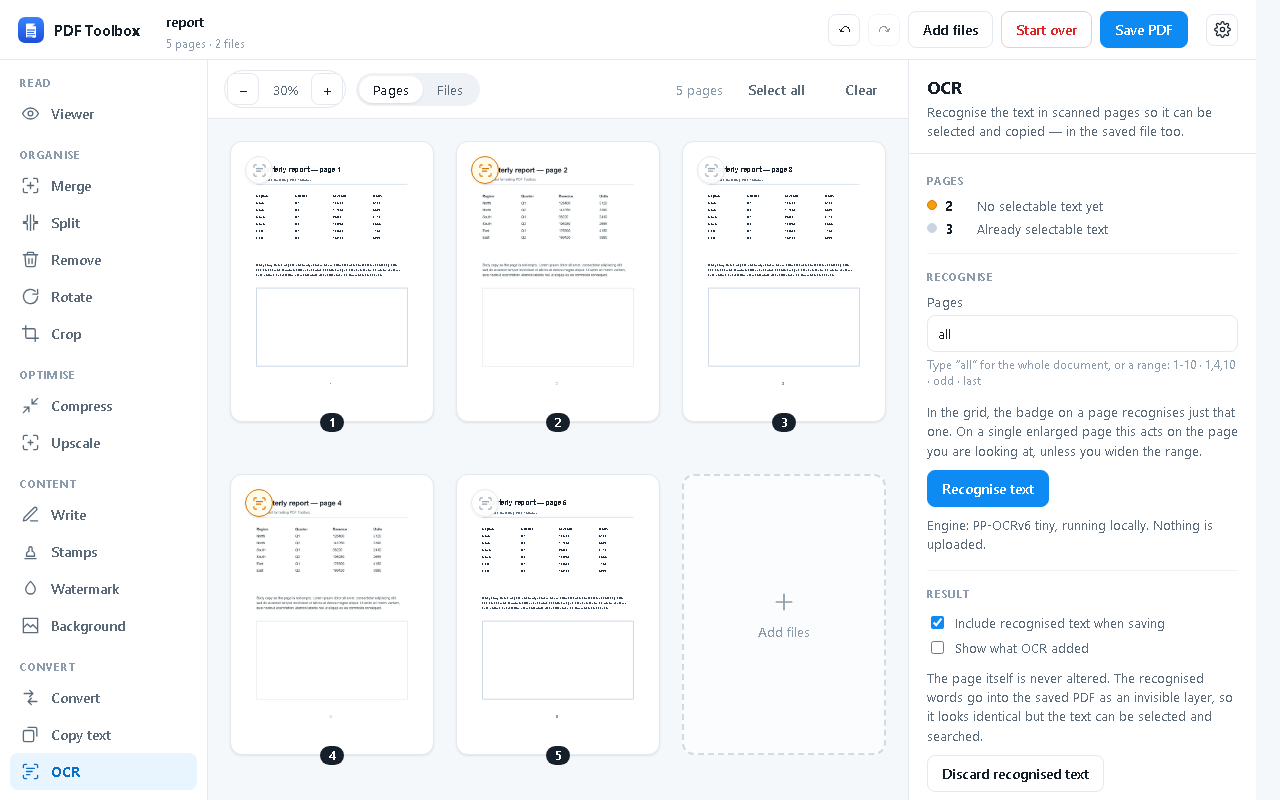
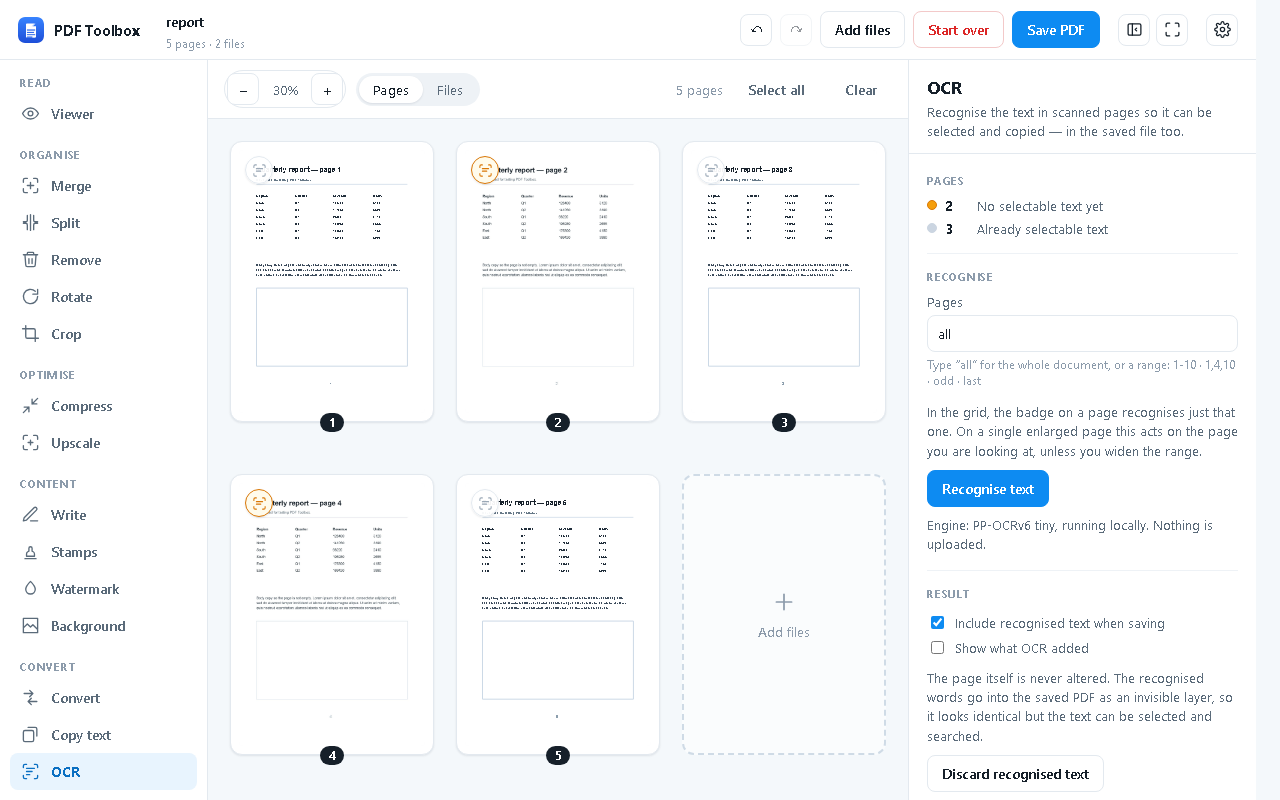
Add a reading-mode screenshot, as the third of eight
Placed after the viewer, since it is the same story: what the document looks
like once the interface steps aside.

Shot on an ordinary report rather than the wide test sheet. The blueprint
demonstrates the gain far better — the page goes from 28 percent to 49 percent
of its true size — but it carries LEFT EDGE and RIGHT EDGE painted on it for the
panning test, and that reads as a debugging artefact on a store page.

Changed region(s): [[0.6562, 0.0, 0.9375, 0.0625]]

diff --git a/STORE.md b/STORE.md
@@ -270,18 +270,19 @@ running app with real documents loaded — not mock-ups. Retake them whenever th
 interface changes: a screenshot showing a tool rail the user will not find is
 worse than no screenshot at all.
 
-Upload the seven in this order. The store puts the **first** one on the item's
+Upload the eight in this order. The store puts the **first** one on the item's
 card, so it leads with the thing nothing else in this category does offline.
 
 | # | File | Shows |
 | --- | --- | --- |
 | 1 | `screenshot-1-ocr.png` | OCR, with two scanned pages marked amber and three grey ones it can tell already have text |
 | 2 | `screenshot-2-viewer.png` | The viewer: page field, zoom, the arrows at the sides, both page layouts |
-| 3 | `screenshot-3-merge.png` | Three files merged into one grid |
-| 4 | `screenshot-4-split.png` | Cut marks between pages, and the parts they will produce |
-| 5 | `screenshot-5-write.png` | A text box being edited on the page |
-| 6 | `screenshot-6-compress.png` | Four compression levels with measured sizes |
-| 7 | `screenshot-7-copytext.png` | Selecting text straight off the pages |
+| 3 | `screenshot-3-reading.png` | Reading mode: side panels collapsed, tools down to their symbols |
+| 4 | `screenshot-4-merge.png` | Three files merged into one grid |
+| 5 | `screenshot-5-split.png` | Cut marks between pages, and the parts they will produce |
+| 6 | `screenshot-6-write.png` | A text box being edited on the page |
+| 7 | `screenshot-7-compress.png` | Four compression levels with measured sizes |
+| 8 | `screenshot-8-copytext.png` | Selecting text straight off the pages |
 
 Both promotional tiles are produced by the same command:
 `promo-small-440x280.png` and `promo-large-1400x560.png`. The small tile is the
